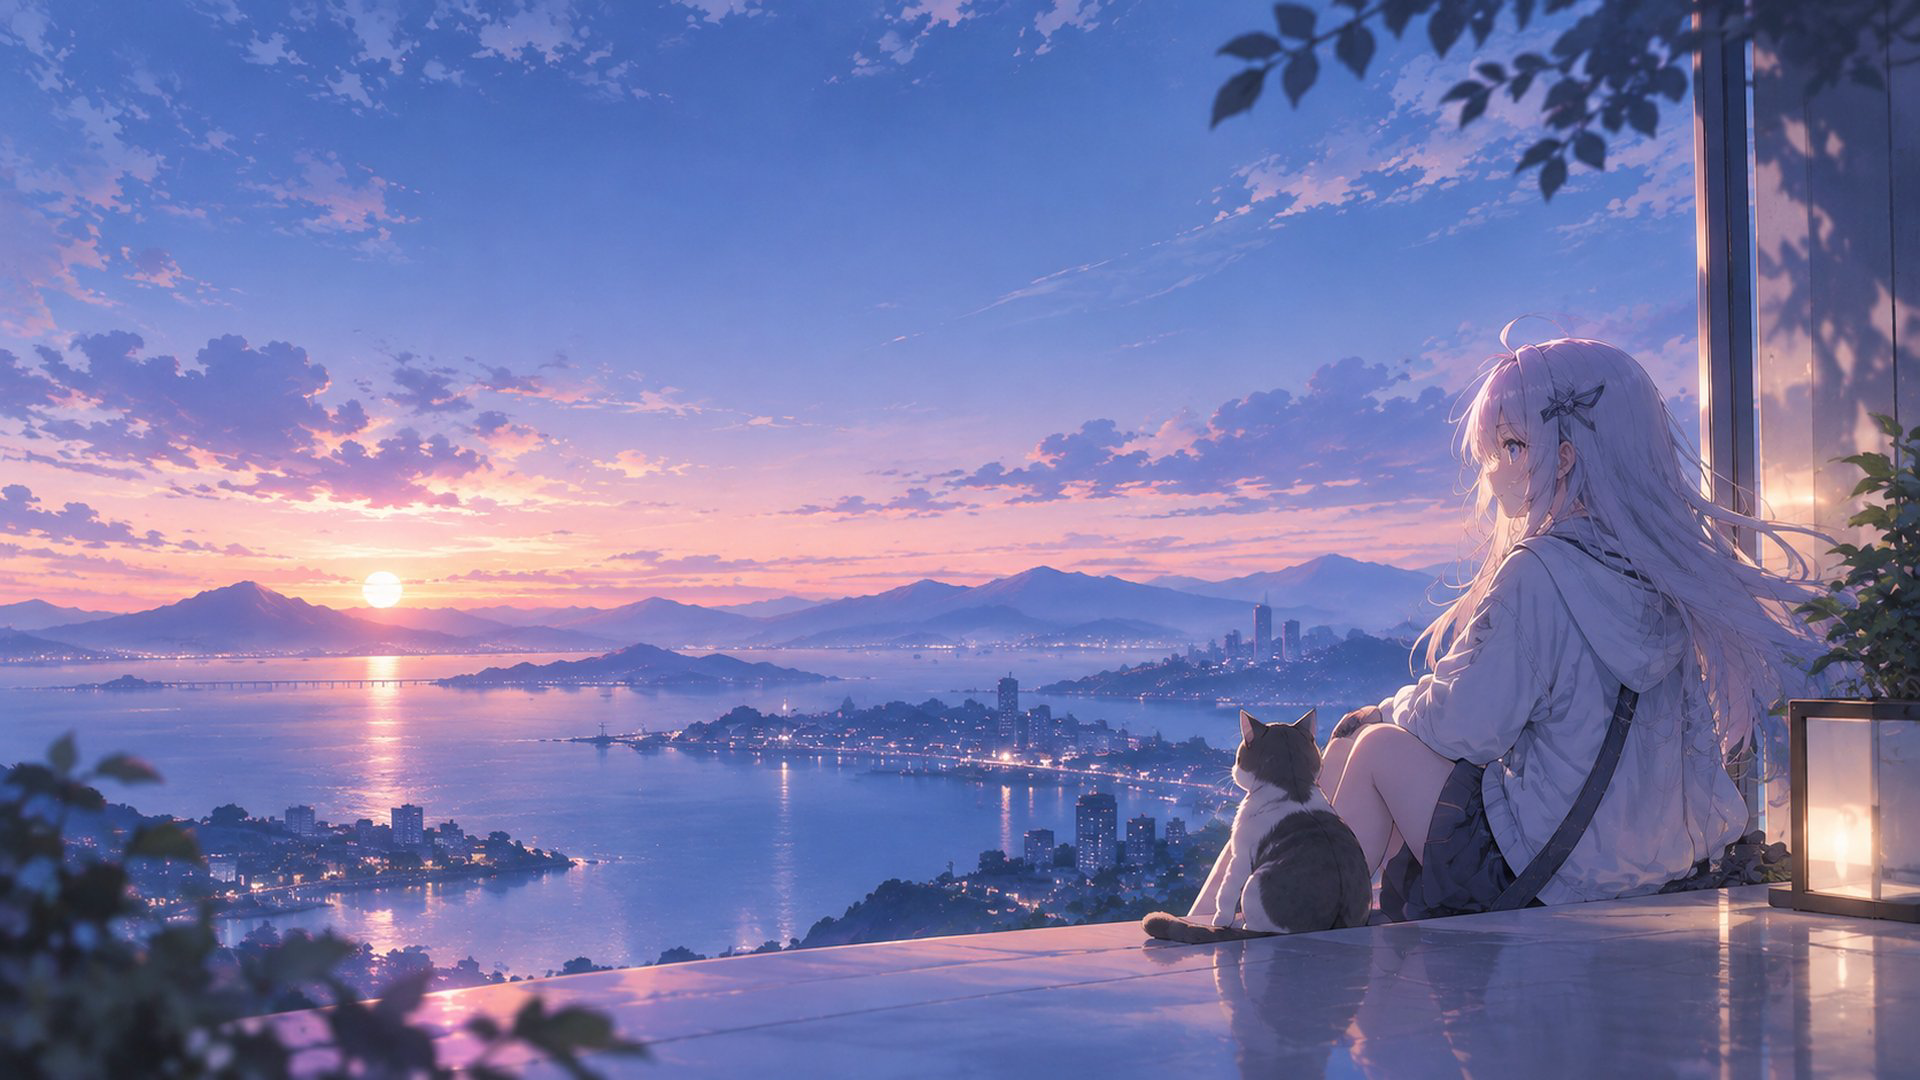
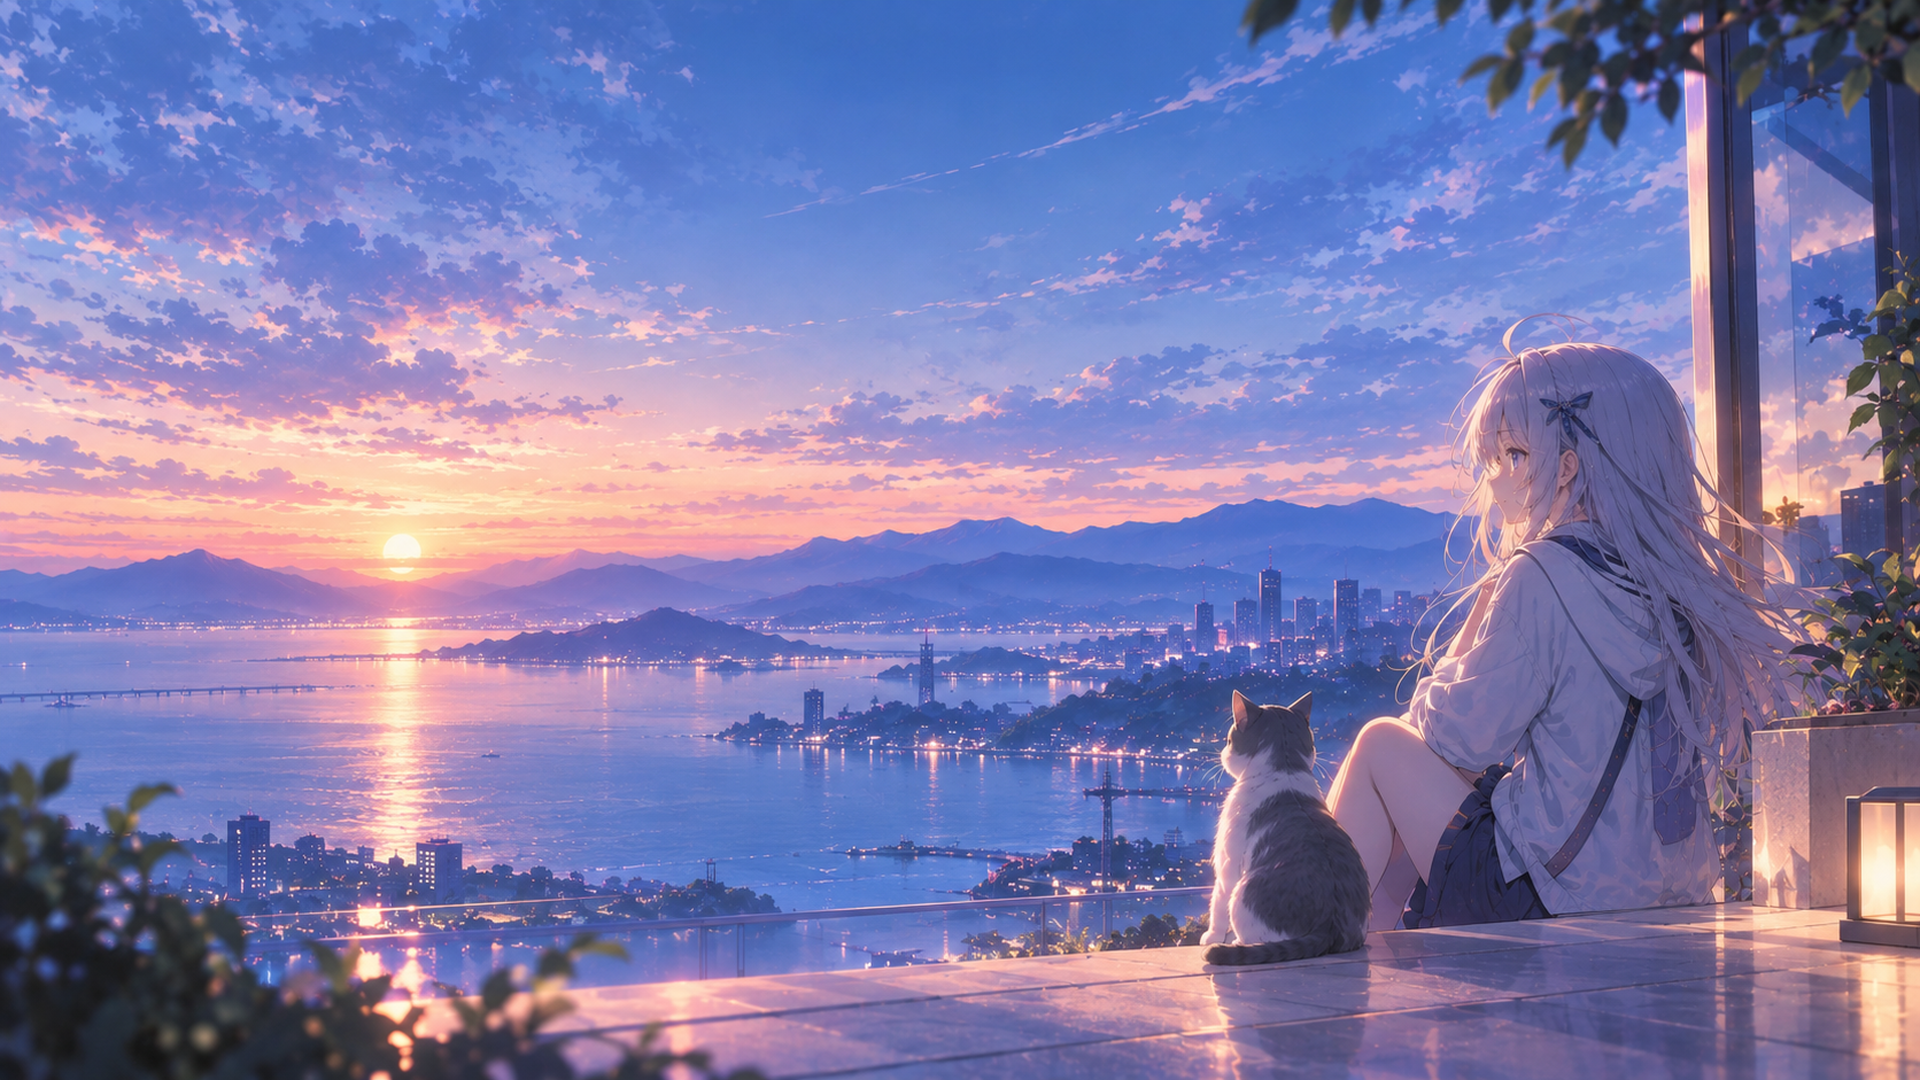
feat(theme): glass cards and a wallpaper-first homepage
Node cards, toolbar icon buttons and the site name share one translucent treatment, so the background image shows through instead of being hidden behind opaque panels. Card opacity is deliberately low (20% white) because a high white ratio over a dark wallpaper reads as no effect at all.

When a background image is set, the status summary, search box, group filter and node counter are hidden and the footer moves to the bottom with white text. Everything is scoped to .has-wallpaper, so instances without a background image keep the original layout.

Radix paints Card backgrounds on ::before rather than background-color, so overriding the element alone leaves the panel opaque.

diff --git a/src/global.css b/src/global.css
@@ -280,26 +280,45 @@ body, * {
 
 /* ===== 节点卡片毛玻璃 =====
    半透明面板 + 背景模糊，让自定义壁纸从卡片下透出来。
-   底色用 Radix 的 --color-panel-solid 调透明度，比硬编码白色更能跟随主题；
-   亮色透一点、暗色实一点，避免暗色下字看不清。 */
+   底色用 Radix 的 --color-panel-solid 调透明度，比硬编码白色更能跟随主题。
+   透明度压得比较低：壁纸多为深色，白色占比一高就整片糊白、等于没效果；
+   暗色再实一点，避免暗底上字看不清。 */
 .km-node-card {
-  background-color: color-mix(in oklch, var(--color-panel-solid) 74%, transparent) !important;
+  background-color: color-mix(in oklch, var(--color-panel-solid) 20%, transparent) !important;
   border: 1px solid var(--gray-a5);
   box-shadow: 0 8px 28px var(--black-a4);
-  backdrop-filter: blur(14px) saturate(145%);
-  -webkit-backdrop-filter: blur(14px) saturate(145%);
+  backdrop-filter: blur(20px) saturate(160%);
+  -webkit-backdrop-filter: blur(20px) saturate(160%);
 }
 
 .dark .km-node-card {
-  background-color: color-mix(in oklch, var(--color-panel-solid) 82%, transparent) !important;
+  background-color: color-mix(in oklch, var(--color-panel-solid) 34%, transparent) !important;
   border-color: rgb(255 255 255 / 0.14);
   box-shadow: 0 8px 30px rgb(0 0 0 / 0.48);
 }
 
 /* Node.tsx 原本用 hover:bg-accent-2 做悬停反馈，会被上面的 !important 吃掉，这里补回来 */
 .km-node-card:hover {
-  background-color: color-mix(in oklch, var(--color-panel-solid) 86%, transparent) !important;
+  background-color: color-mix(in oklch, var(--color-panel-solid) 30%, transparent) !important;
   box-shadow: 0 12px 38px var(--black-a5);
+}
+
+/* ===== 工具栏与视图切换的方块按钮 =====
+   这些按钮是 Radix 的 soft 变体，底色只有一层极淡的 --accent-a3，
+   压在深色壁纸上几乎看不到边界。这里给它们和卡片同一套玻璃底，
+   但更实一些，保证图标始终可辨。选中态是 solid，不在此列。 */
+.km-navbar .rt-IconButton.rt-variant-soft,
+.km-node-display .view-switch-button.rt-variant-soft {
+  background-color: color-mix(in oklch, var(--color-panel-solid) 58%, transparent) !important;
+  border: 1px solid var(--gray-a6);
+  backdrop-filter: blur(12px) saturate(150%);
+  -webkit-backdrop-filter: blur(12px) saturate(150%);
+}
+
+.dark .km-navbar .rt-IconButton.rt-variant-soft,
+.dark .km-node-display .view-switch-button.rt-variant-soft {
+  background-color: color-mix(in oklch, var(--color-panel-solid) 64%, transparent) !important;
+  border-color: rgb(255 255 255 / 0.18);
 }
 
 /* Firefox 合成多层 backdrop-filter 的开销明显高于 Chromium，节点多时会掉帧，
@@ -307,6 +326,13 @@ body, * {
 @supports (-moz-appearance: none) {
   .km-node-card,
   .km-node-card:hover {
+    background-color: var(--color-panel-solid) !important;
+    backdrop-filter: none;
+    -webkit-backdrop-filter: none;
+  }
+
+  .km-navbar .rt-IconButton.rt-variant-soft,
+  .km-node-display .view-switch-button.rt-variant-soft {
     background-color: var(--color-panel-solid) !important;
     backdrop-filter: none;
     -webkit-backdrop-filter: none;
@@ -321,4 +347,68 @@ body, * {
     backdrop-filter: none;
     -webkit-backdrop-filter: none;
   }
+
+  .km-navbar .rt-IconButton.rt-variant-soft,
+  .km-node-display .view-switch-button.rt-variant-soft {
+    background-color: var(--color-panel-solid) !important;
+    backdrop-filter: none;
+    -webkit-backdrop-filter: none;
+  }
+}
+
+/* 有壁纸时清掉顶部这些块：状态条、搜索框、分组筛选、节点计数。
+   用 display:none 释放它们占的高度，把卡片区整体提上来；
+   提多少由下面 .km-node-display 的 padding-top 控制，避免直接贴住导航栏。 */
+.km-layout.has-wallpaper .km-summary-card,
+.km-layout.has-wallpaper .km-search-box,
+.km-layout.has-wallpaper .km-node-group,
+.km-layout.has-wallpaper .km-node-summary {
+  display: none;
+}
+
+.km-layout.has-wallpaper .km-node-display {
+  padding-top: 0.5rem;
+}
+
+/* 页脚文字在壁纸上改成白色；customFooterHtml 里的自定义内容不在此列 */
+.km-layout.has-wallpaper .km-footer .rt-Text {
+  color: rgb(255 255 255 / 0.82) !important;
+}
+
+/* 控制栏本身是透明的（rt-Flex 无背景）。
+   搜索框被 display:none 后，剩下的视图切换按钮会被 justify-between 甩到左边，
+   这里改成靠右，并收掉多余的上下内边距，让它和卡片区保持一条线上。 */
+.km-layout.has-wallpaper .control-bar {
+  background-color: transparent !important;
+  box-shadow: none !important;
+  border-color: transparent !important;
+  justify-content: flex-end;
+  padding-top: 0;
+  padding-bottom: 0.75rem;
+}
+
+/* ===== 有壁纸时的站名配色 =====
+   站名默认继承 --foreground，亮色主题下接近黑色，压在深色壁纸上很难看。
+   只在布局带 has-wallpaper 时切成白字 + 一层淡玻璃底；
+   没设壁纸时保持原色，否则白字会消失在白底上。 */
+.km-layout.has-wallpaper {
+  --km-brand-accent: rgb(255 255 255 / 0.78);
+  --km-brand-divider: rgb(255 255 255 / 0.38);
+}
+
+.km-layout.has-wallpaper .km-sitename {
+  /* 真正的「毛玻璃文字」做不到：backdrop-filter 只能作用于元素的盒子，
+     无法按字形裁剪出模糊区域。这里改用渐变裁切——字的上半实白、下半半透明，
+     模仿玻璃的透光层次，再用 drop-shadow 保证在任何壁纸上都读得清。 */
+  background-image: linear-gradient(
+    180deg,
+    #fff 0%,
+    rgb(255 255 255 / 0.66) 100%
+  );
+  -webkit-background-clip: text;
+  background-clip: text;
+  color: transparent;
+  -webkit-text-fill-color: transparent;
+  filter: drop-shadow(0 1px 2px rgb(0 0 0 / 0.5))
+    drop-shadow(0 0 10px rgb(0 0 0 / 0.22));
 }

diff --git a/src/components/NavBar.tsx b/src/components/NavBar.tsx
@@ -19,18 +19,18 @@ const NavBar = () => {
     <nav className="km-navbar nav-bar flex rounded-b-lg items-center gap-2 md:gap-3 max-h-16 justify-end min-w-full p-2 px-4">
       <div className="km-navbar-brand mr-auto flex items-center min-w-0">
         <Link to="/" className="flex items-center min-w-0">
-          <span className="font-bold text-[clamp(1.25rem,5vw,1.875rem)] whitespace-nowrap truncate leading-tight">
+          <span className="km-sitename font-bold text-[clamp(1.25rem,5vw,1.875rem)] whitespace-nowrap truncate leading-tight">
             {publicInfo?.sitename}
           </span>
         </Link>
         <div className="hidden flex-row items-baseline md:flex ml-3">
           <div
-            style={{ borderColor: "var(--accent-3)" }}
+            style={{ borderColor: "var(--km-brand-divider, var(--accent-3))" }}
             className="border-r-2 mr-2 h-4 self-center"
           />
           <span
             className="text-base font-bold whitespace-nowrap"
-            style={{ color: "var(--accent-4)" }}
+            style={{ color: "var(--km-brand-accent, var(--accent-4))" }}
           >
             komari-slim
           </span>

diff --git a/src/components/NodeDisplay.tsx b/src/components/NodeDisplay.tsx
@@ -121,7 +121,7 @@ const NodeDisplay: React.FC<NodeDisplayProps> = ({ nodes, liveData }) => {
         <Flex
           align="center"
           gap="2"
-          className="flex-1 max-w-md relative"
+          className="km-search-box flex-1 max-w-md relative"
           wrap="wrap"
         >
           <TextField.Root
@@ -154,9 +154,6 @@ const NodeDisplay: React.FC<NodeDisplayProps> = ({ nodes, liveData }) => {
 
         {/* 视图模式切换 */}
         <Flex align="center" gap="2">
-          <label className="whitespace-nowrap text-md text-muted-foreground">
-            {t("view.mode")}
-          </label>
           <Flex gap="1">
             <IconButton
               variant={viewMode === "grid" ? "solid" : "soft"}

diff --git a/src/pages/_layout.tsx b/src/pages/_layout.tsx
@@ -20,7 +20,7 @@ const IndexLayout = () => {
         <div
           className={
             bgUrl
-              ? "km-layout layout flex flex-col w-full min-h-screen bg-cover bg-center bg-fixed bg-no-repeat"
+              ? "km-layout layout has-wallpaper flex flex-col w-full min-h-screen bg-cover bg-center bg-fixed bg-no-repeat"
               : "km-layout layout flex flex-col w-full min-h-screen bg-accent-1"
           }
           style={{

diff --git a/src/components/Footer.tsx b/src/components/Footer.tsx
@@ -46,7 +46,7 @@ const Footer = () => {
   }, []);
 
   return (
-    <div className="km-footer footer p-2 border-t-1 border-t-[var(--gray-7)]">
+    <div className="km-footer footer p-2 mt-auto">
       {/* Copyright and ICP Filing */}
 
       {customFooterHtml ? (
